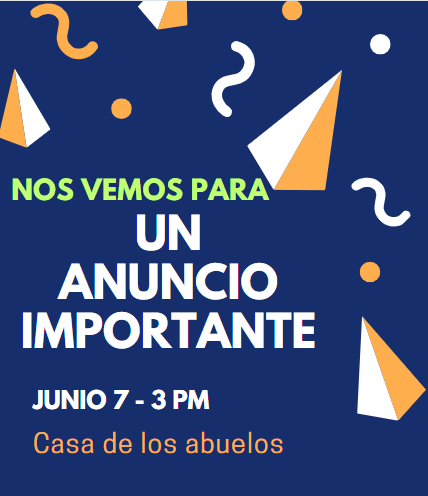
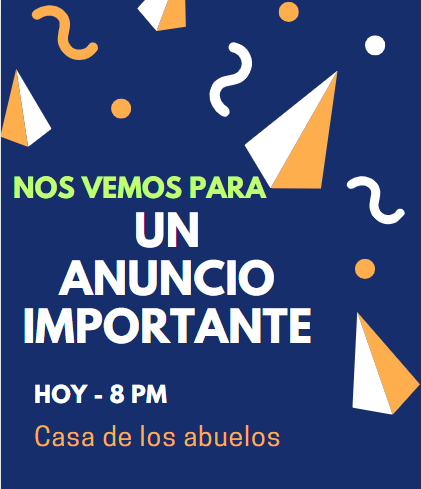
Se cambio el css y se cambio la fecha

diff --git a/css/style.css b/css/style.css
@@ -24,8 +24,8 @@ body, html {
 }
 .closed-envelope, .opened-envelope {
     position: absolute;
-    width: 100%;
-    height: 100%;
+    width: 107%;
+    height: 61%;
     transition: opacity 0.5s ease;
 
 }
